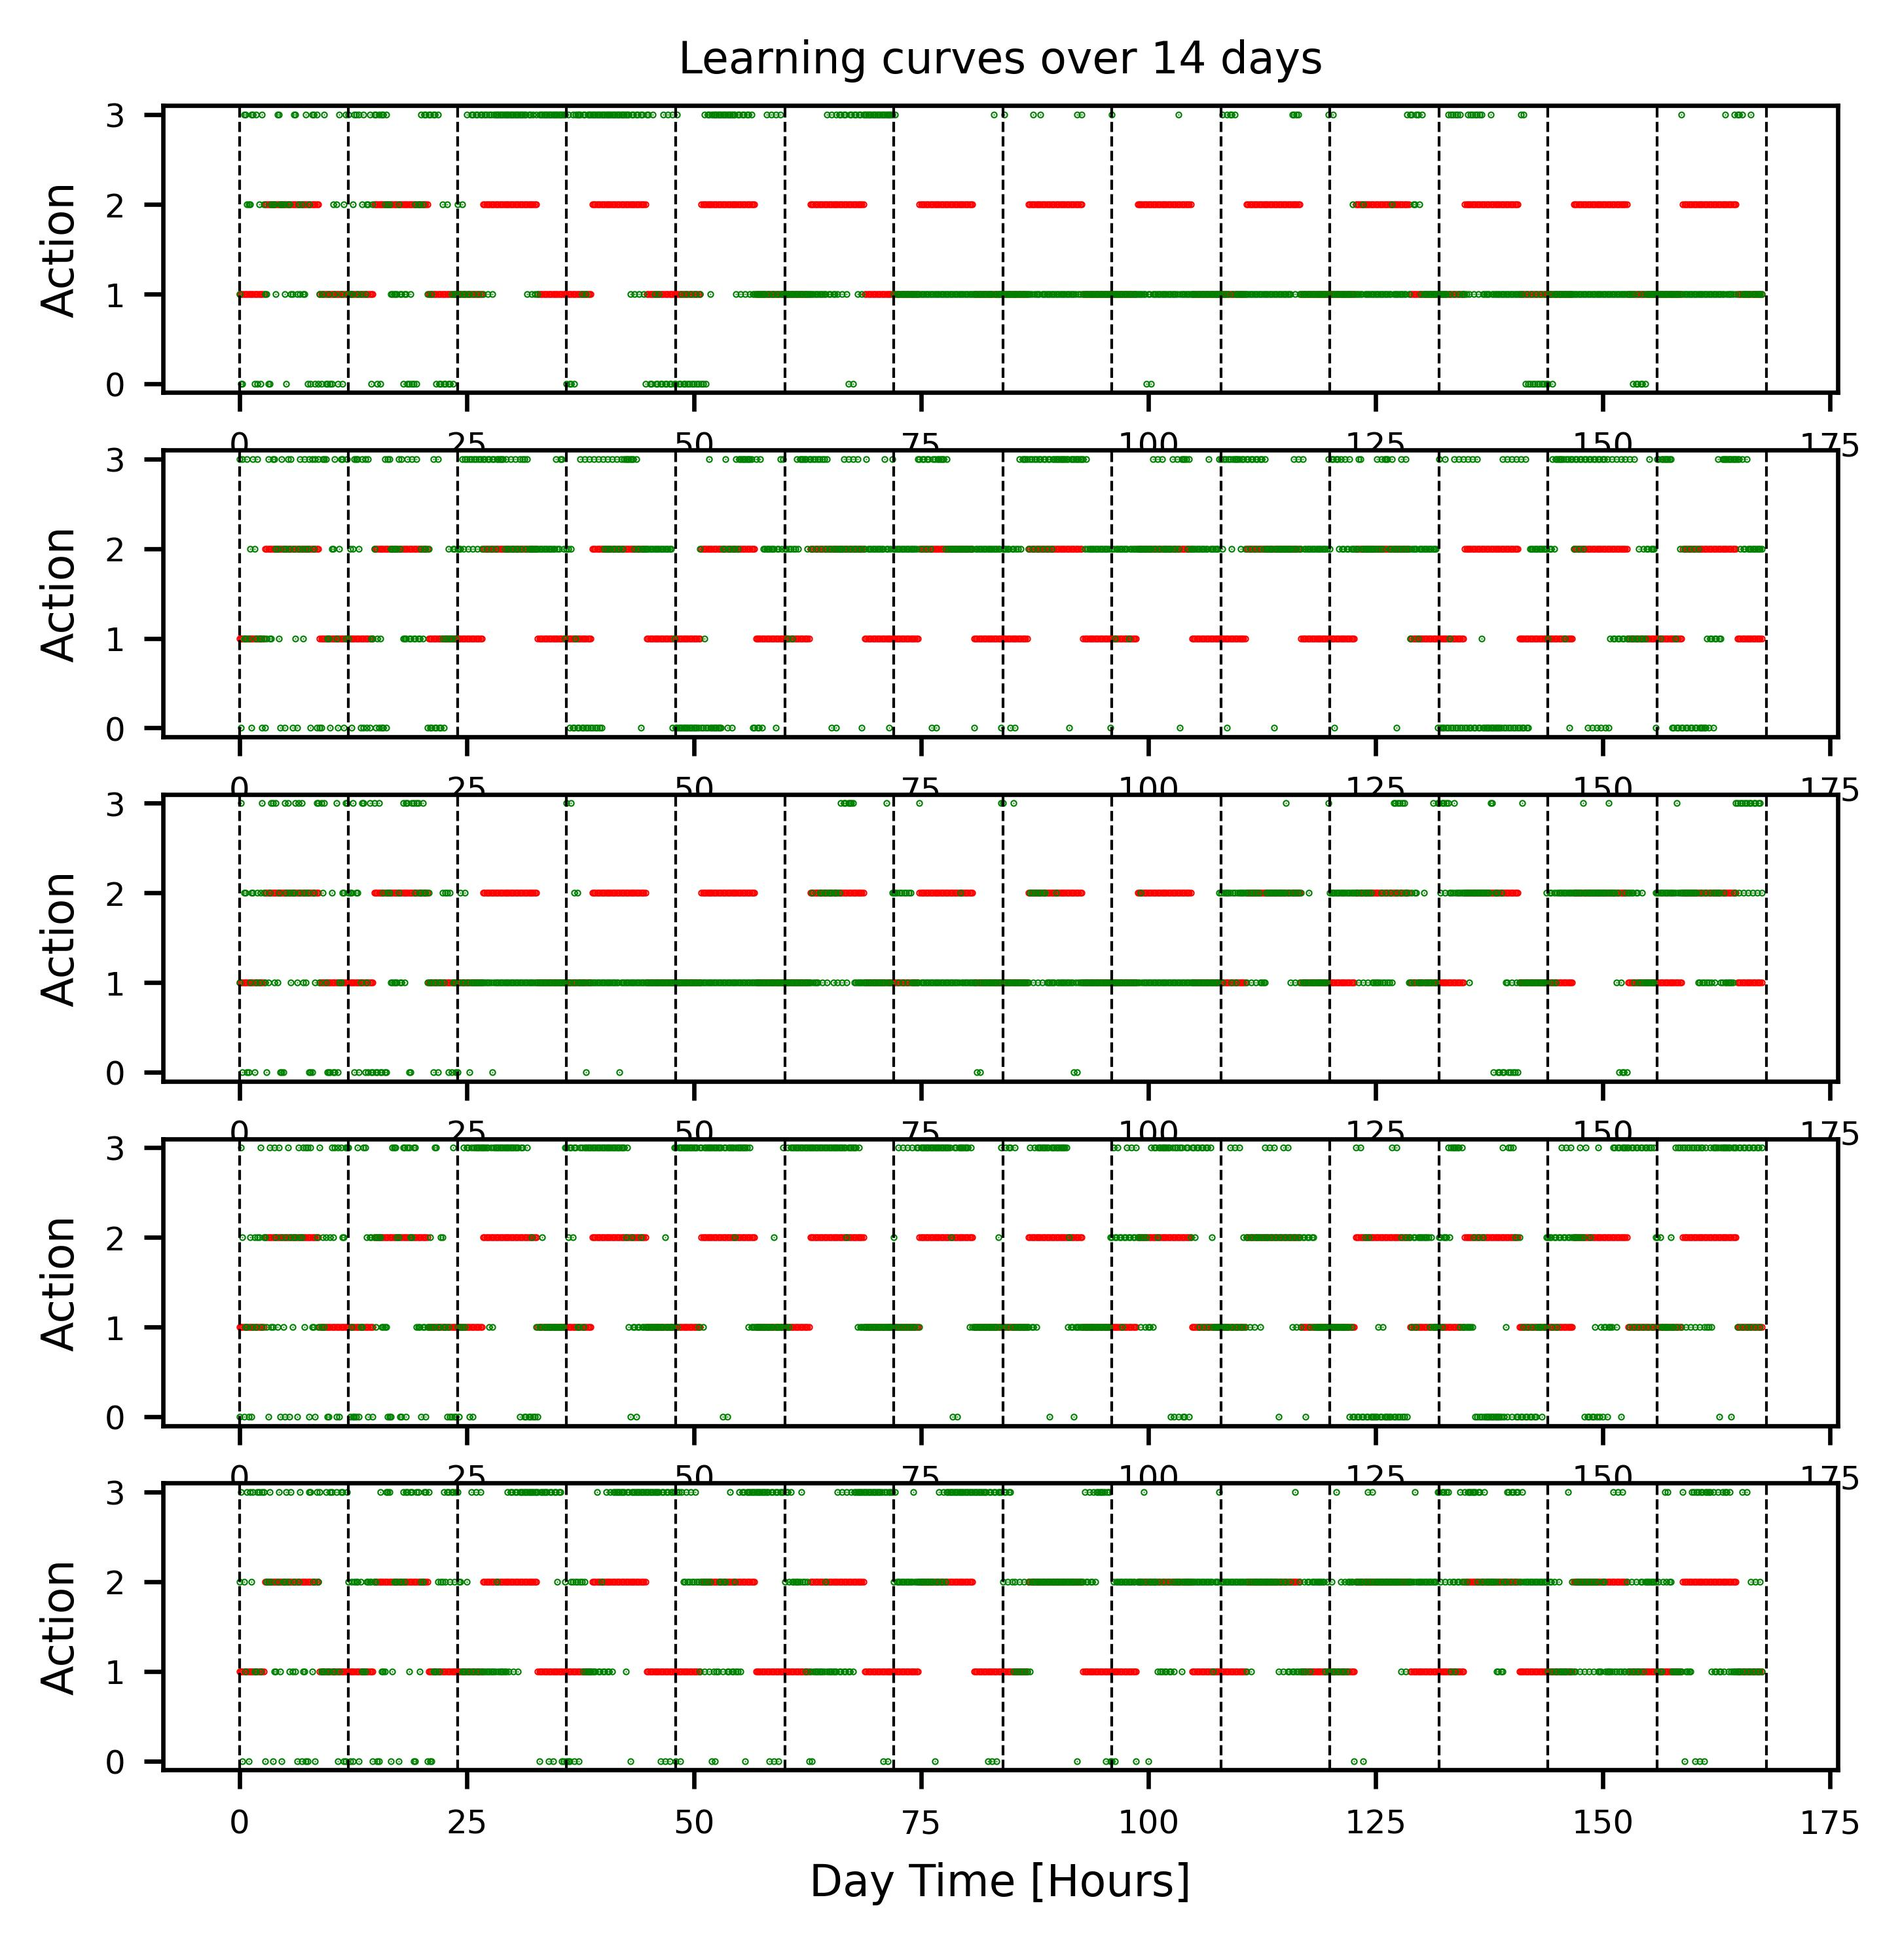
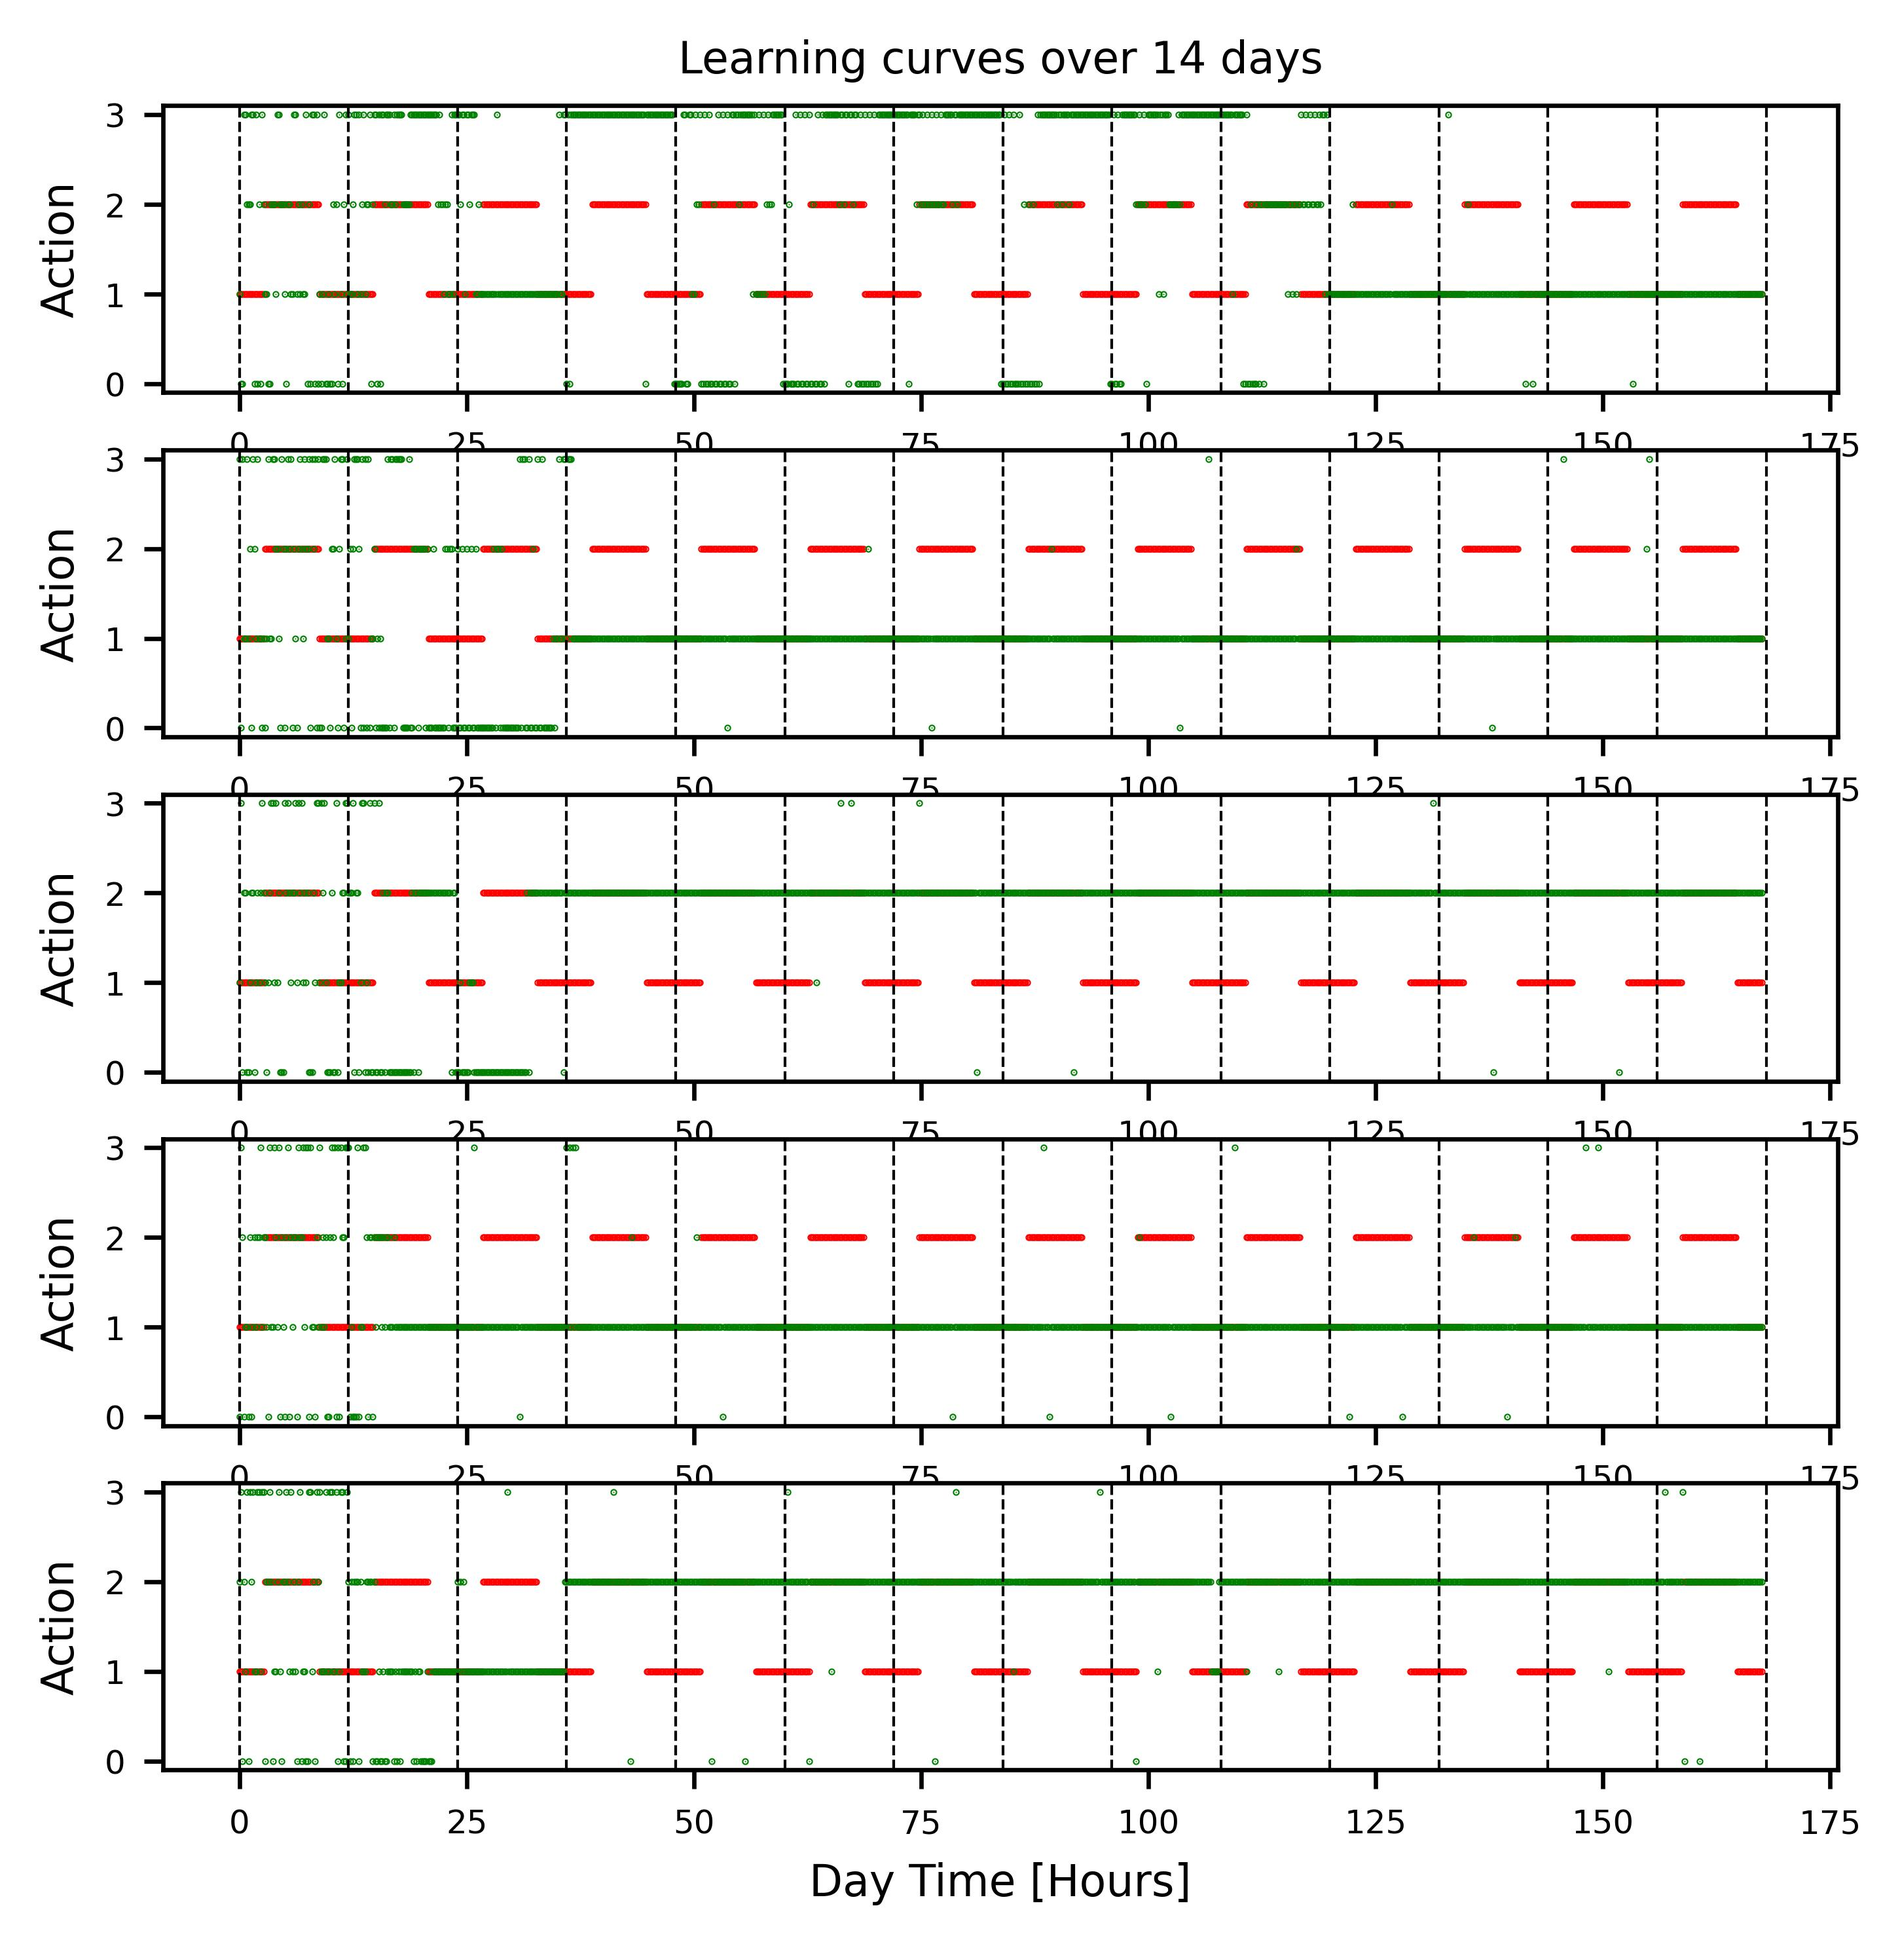
did some sim experiments

diff --git a/experiments/offline/E3/P11/learning_curves.py b/experiments/offline/E3/P11/learning_curves.py
@@ -24,8 +24,8 @@ COLORS = {'tc-ESARSA': 'blue'}
 total_days = 14
 optimal_action = np.tile(np.hstack([np.ones(3*6), 2*np.ones(6*6), np.ones(3*6)]), total_days)[1:-1]
 
-def last_n_percent_sum(x, n=0.5):
-    return np.nansum(x[:, int((1-n)*x.shape[1]):], axis=1)
+def last_n_percent_sum(x, n=0.2):
+    return np.nansum(x[:, int((8/14)*x.shape[1]):int((10/14)*x.shape[1])], axis=1)
 
 class TimeSummary(enum.Enum):
     last_n_percent_sum = enum.member(last_n_percent_sum)
@@ -57,7 +57,7 @@ def main():
         f, ax = plt.subplots(5, 1)
         for alg, alg_df in split_over_column(env_df, col='algorithm'):   
             sub_df = alg_df
-            #sub_df = alg_df[alg_df['l1']==0.1]
+            sub_df = alg_df[alg_df['alpha']==0.1]
             report = Hypers.select_best_hypers(
                 sub_df,
                 metric='action_is_optimal', 

diff --git a/experiments/offline/E3/E3-log.md b/experiments/offline/E3/E3-log.md
@@ -193,19 +193,27 @@ What did help:
 - tile coding = tile(time) + tile(trace) + tile(time, trace).
 - w0 doesn't have to be zero, because day 1's trace and reward (which are messy) have been set to 0
 ### Observations: 
-- 
+- Not as good as P9. Could it be because it's harder to learn with the longer feature vector?
 ### Conclusions & Outlooks: 
-- 
-
+- Try L1 regularization to penalize dead weights
 
 ## Phase P11
 ### Objectives: 
 - Test out L1 regularization
 ### Methods: 
-- mostly same as above
-- in sim, modified the percentage change formula slightly so that an up-and-down peak in area doesn't result in a net positive return (so called symmetric percentage change)
-- tile coding = tile(time) + tile(trace) + tile(time, trace).
-- w0 doesn't have to be zero, because day 1's trace and reward (which are messy) have been set to 0
+- added L1 regularization to TC ESARSA
+- sweep through "l1": [1e-5, 1e-4, 1e-3, 1e-2, 1e-1]
 ### Observations: 
-- 
+- The agent seems to converge to flat line policy. Why can't it do any better? Is it not expressive enough? Maybe the 2D tile code gets penalized to death because it has 32 features, but the 1D tile codes each also has 32 features. 
 ### Conclusions & Outlooks: 
+- Try using only 2Dtile = (time, growth rate) with L1 regularization
+
+## Phase P12
+### Objectives: 
+- Test out 2Dtile = (time, growth rate) with L1 regularization. 
+### Methods: 
+- Basically P9 but with symmetric % change in sim and L1 reg in agent.
+### Observations: 
+- ...
+### Conclusions & Outlooks: 
+- ..
